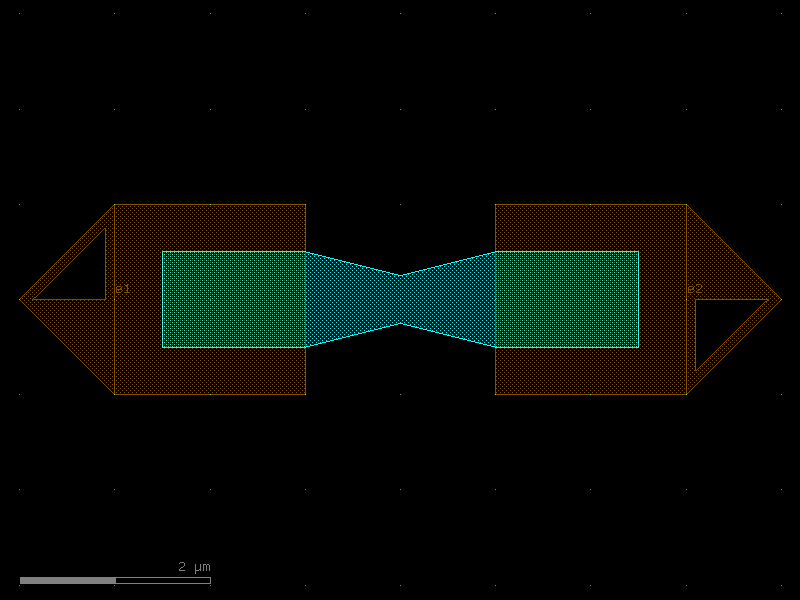
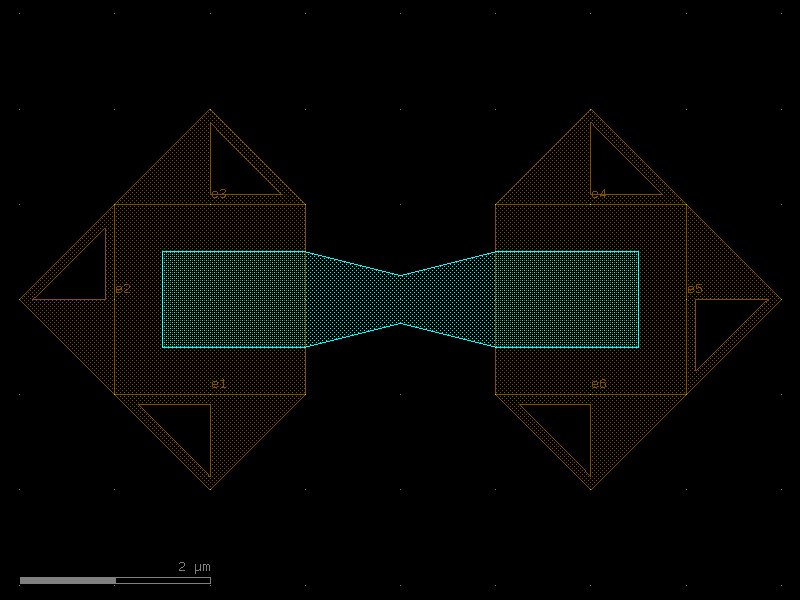
add more ports to multilayer htron heater

diff --git a/src/qnngds/devices/htron.py b/src/qnngds/devices/htron.py
@@ -129,7 +129,8 @@ def heater(
     HEATERu = gf.Component()
     HEATERu << qg.utilities.union(HEATER)
     for n, t_pad in enumerate(t_pads):
-        HEATERu.add_port(name=f"e{n + 1}", port=t_pad.ports["e3"])
+        for i in range(3):
+            HEATERu.add_port(name=f"e{3 * n + i + 1}", port=t_pad.ports[f"e{i + 2}"])
     for port in HEATERu.ports:
         port.port_type = port_type
     return HEATERu
